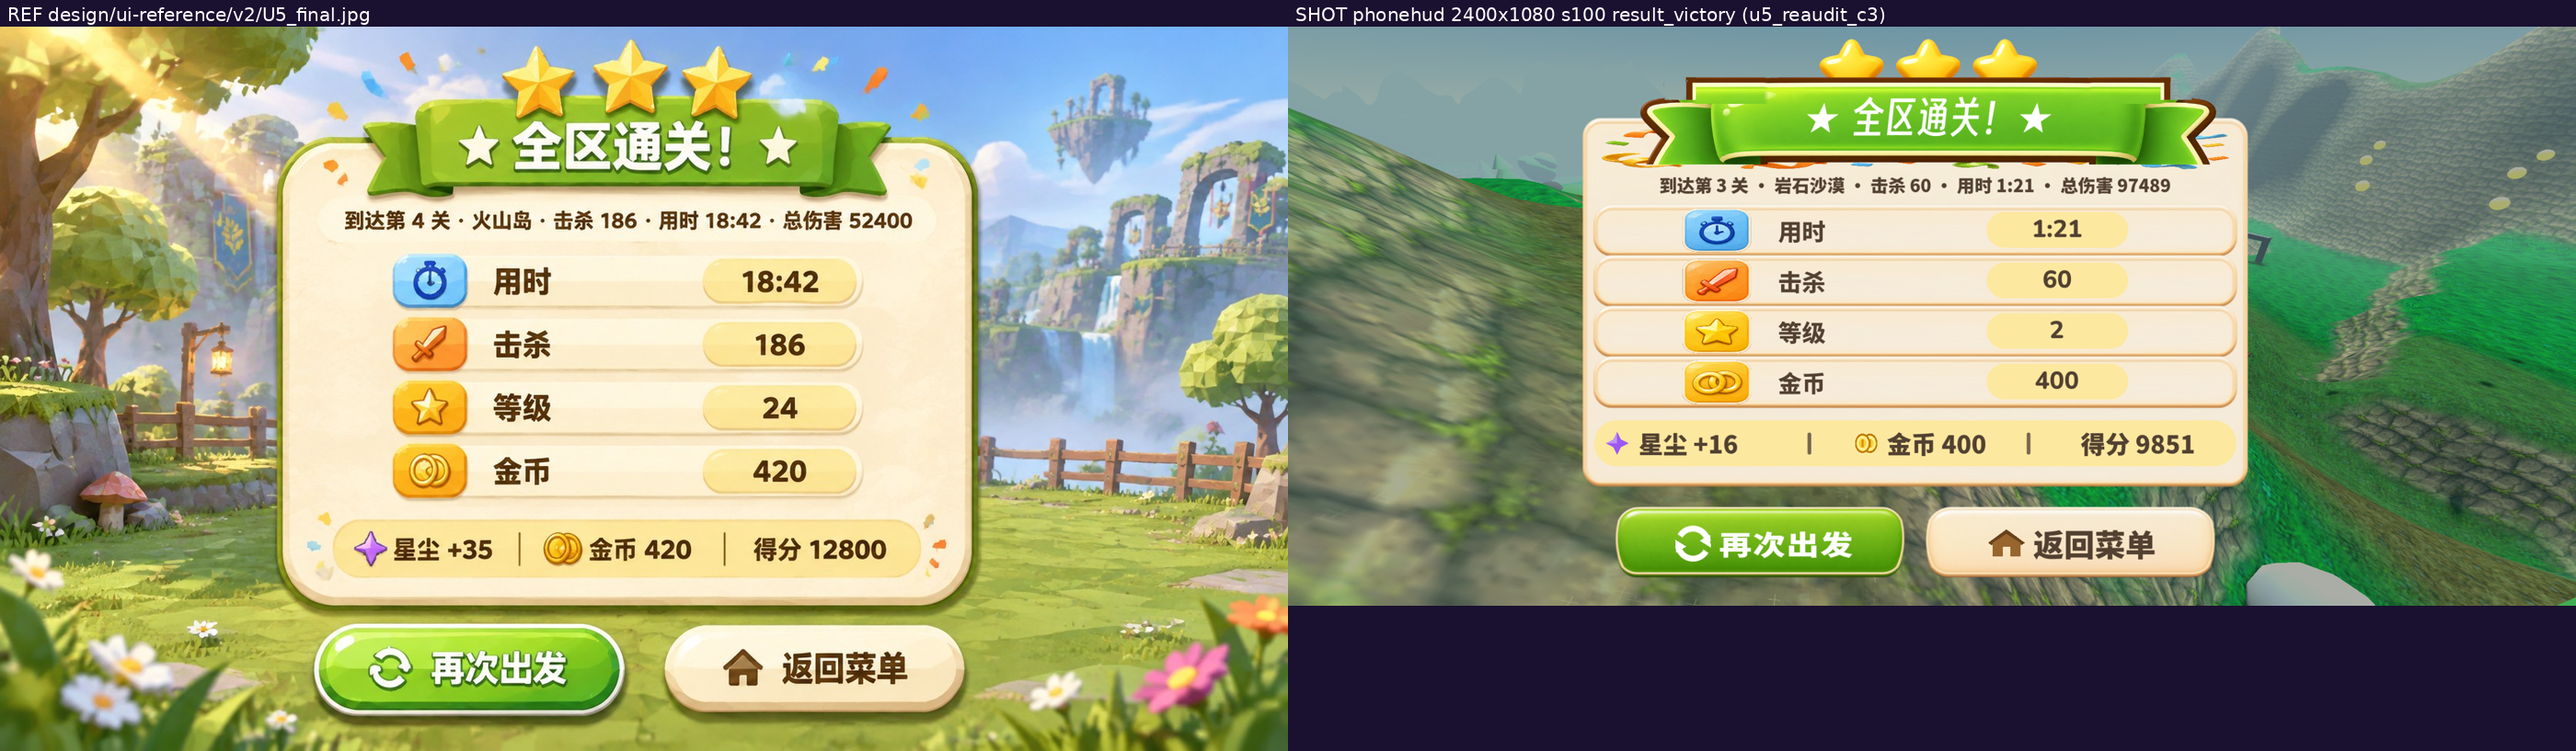
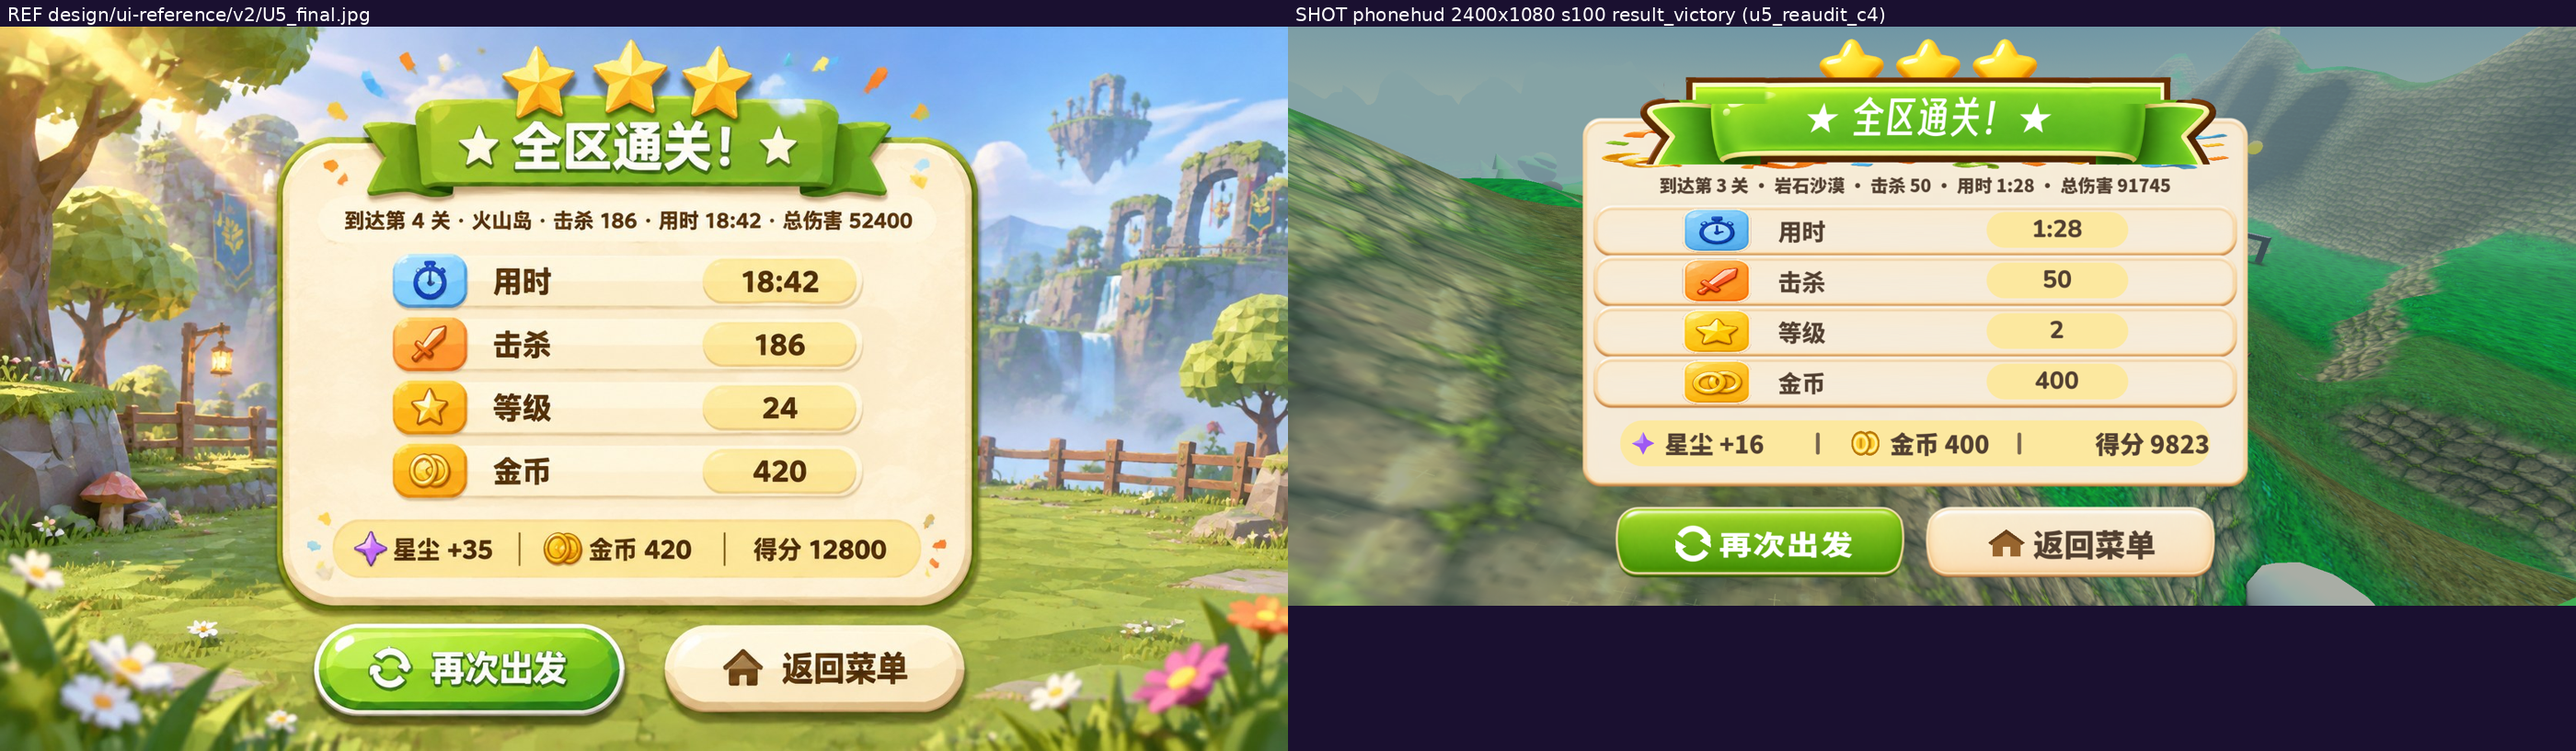
U5 re-audit round 4 accepted: payout pill inset landed, coins width short (glyph redraw needed), round 5 brief drafted (09:4x worker)

Changed region(s): [[0.6214, 0.5508, 0.7768, 0.612], [0.8079, 0.5508, 0.87, 0.612], [0.9632, 0.2142, 0.9943, 0.2448]]

diff --git a/design/ui-alignment-progress.md b/design/ui-alignment-progress.md
@@ -1287,3 +1287,26 @@ U1 已重开，U3 不得开工（见「关闭门」）。第 9 轮：2340 复验
 - 同步：sync_to_nuc 两次遇 rsync rc=12/255「Connection closed by UNKNOWN port 65535」已知传输抖动，第三次成功；parity 908 文件 0 diff。
 - Parse 门 Test/u5_reaudit_c4_parse.sh：world.gd rc=0、ui_icon.gd rc=0。
 - 提交 27b64fc 已推送（ls-remote 核验）；验证批 Test/u5_reaudit_c4_run.sh 08:30:58 起跑，.done 路径 Test/out/u5_reaudit_c4.done，预计 ALLDONE 约 09:05–09:10。**下一轮只监看批、取新拍复测、重建 compare、亲检再议签核。** U5 未关闭；U1 复审仍不开。
+
+## U5 复审 Codex 第四轮验收（2026-11-16 09:1x–09:4x 轮，worker 同法复测＋亲检）
+
+- 批次 Test/out/u5_reaudit_c4.done ALLDONE 08:56:48：2400 s100 **1549/0**、2340 s100 **1564/0**（FAIL 行 0 条；SCRIPT ERROR 0 条）。双档新拍＋双日志已拉回逐字节核验（2340 md5 1f1dbc76、2400 md5 445cef30；日志 820207/814011 字节，md5 与 NUC 一致）。
+- 复测（2340＋2400 双档，同法；脚本 .tmp/scan_u5_reaudit_c3.py / c3_scan2.py / c3_extra.py / u5_reaudit_c2_type{,2}.py / scan_u5_reaudit_c4.py，新写 .tmp/scan_u5_reaudit_c4_coins.py（dark-gold 币标法）与 .tmp/scan_u5_reaudit_c4_pillx.py / pillrow.py / rowband.py，结果存 .tmp/u5_reaudit_c4_*.txt）：
+  - ✅ **汇总 pill inset 落定**：goldfill 法 pill x 25.30..72.05 vs 定稿 25.12..72.19（第三轮 23.12..74.23 已清）；左右边距各 2.74%W（目标 2.5–2.9%W）。2400 腿 25.92..71.46，边距各约 2.66%W。
+  - ✅ 汇总带 y 保持：scan2 goldblob5 68.06..75.74 vs 定稿 68.01..75.98。
+  - ✅ 面板框：22.56..74.79/16.20..78.61 vs 定稿 22.43..74.88/16.37..78.64。保持。
+  - ✅ 行心：值 pill 金填充心 35.05/43.80/52.50/61.25 vs 定稿 34.91/43.62/52.44/61.11（残差 +0.14/+0.18/+0.06/+0.14）；行距 8.70–8.75 vs 8.73；值 pill 右缘 65.64 vs 66.39（同法）。保持。
+  - ✅ 行标签字：cap 高 3.80 vs 定稿 3.72–3.83；标签 x 38.33..41.88 vs 38.34..42.64。保持。
+  - ✅ tile：左缘 30.81 vs 定稿 30.50%W；宽圆角矩形目视确认；高 7.04 vs 7.33%H。保持。
+  - ✅ 标题字形：6.39 vs 6.38%H。保持。
+  - ✅ 钮面字：绿钮 4.44 vs 定稿 4.36%H（type2）；奶油钮 5.00 vs 4.89%H（type；type2 的 8.06 系钮下深色岩石背景污染，勿再误判）。保持。
+  - ✅ 再次出发钮 glyph：双弧双箭头，4 倍放大裁切亲验，形状与定稿一致（弧略细、箭头偏尖属纹理族）；家形图标双色调＋门洞，4 倍裁切亲验。保持。
+  - ✅ 汇总星：h 3.80 vs 定稿 3.83%H。保持。
+  - ✅ 摘要加粗：同法 dark 像素占比与第三轮一致（+21% 归一，第三轮已验收）。保持。
+  - ⚠ **汇总金币图标仅高度达标、宽度未达标**：dark-gold 法币对 h 4.26 vs 定稿 4.68%H（-9%，第三轮 3.33→已放大），但 **w 2.26 vs 定稿 5.08%W（仅 44%）**；extra 亮面法 h 3.43 vs 定稿 4.68（第三轮 2.78）。根因已查明：现 glyph（ui_icon.gd `result_coins`，圆心 cx [15, 9]、半径 8、x 向 squash 0.78）绘出 18.48×16 单位（宽高比 1.16），定稿币对为两枚近乎相切的整圆并排（85×44 px，宽高比 1.93）；**方形 Control 内宽高比上限 24/16=1.5，只放大尺寸修不好**——第四轮 38→48 已证（高到位、宽不动）。2400 腿同值。
+  - △ 汇总字尺寸新测存疑（不列入本轮判据，待主控裁定）：中文 glyph 法“金币”文字 cap 高 3.98 vs 定稿 3.19%H（+25%），而 c3 验收的数字法为 3.06 vs 2.76%H（+11%）；两法不一致，疑为定稿 JPEG 边缘柔化＋粗体权重所致。第五轮不得自行改字号。
+  - △ 行带分隔线：纵向剖面证实定稿亦有行带交替＋分隔线（R-B 约 61–64），我方同结构但分隔线更重（R-B 72–123）——纹理族程度差，非新增结构差。
+- 亲检：compare/U5.png 与 compare/U5_2400.png 已以第四轮双档新拍重建（Test/make_compare_u5.py，标签 u5_reaudit_c4），逐项看过——与上述量测一致；payout/btns/rows/refresh/home 裁切（.tmp/u5_reaudit_c4_cap_*）逐一看过。2400 腿同残差、无新增项。纹理/素材族仍在范围外（缎带棕色粗描边＋窄折尾、三星 6.48 vs 10.20%H 偏小偏高、钮面/pill/行带扁平无光泽渐变），不入本轮代码结论。
+- **量法教训（记入台账，後轮勿重蹈）**：① `.tmp/u5_c4_before_*.png` 并非“改后基线”——其 pill x 23.12..74.23、币 extra h 2.78 均为第三轮值，实为 Codex 会话 07:19 改动前渲染的前基线；08:2x 轮“改后基线”标注有误，本轮以前后对比核实为准（pill 23.12→25.30、币 extra 2.78→3.43，改动确实落地）。② pillx 行法（non-cream 行扫描）在本屏失效——实拍面板奶油色 R-B≈30 恰在 cream mask 阈值（>30）边上，行法把面板误判为 pill（得 23.03..74.32）；pill x 一律用 goldfill 法（scan2/3 的 `payout:` 行）。
+- 结论：**U5 未过关闭门**。第四轮两项中一项落定（①汇总 pill inset），一项未落定（②金币图标宽度——glyph 形制问题，需重绘，非尺寸问题）。第五轮处方一项：重绘 `result_coins`（去 squash、圆心拉开、非方形 Control，宽高双目标 5.08%W×4.68%H）。派单草稿 `.tmp/u5_reaudit_codex5_brief.md` 已拟好（含验收数值总表、三种量法警示与 A/B 两处方及换算基准），**待主控派 Codex 池**；本屏仍不开 U1 复审。Notion 对齐单未动（U5 未关闭）。
+- 本轮提交：本节台账＋重建的 compare/U5.png、compare/U5_2400.png（随本提交推送）；量测脚本与裁切图留 .tmp（u5_reaudit_c4_*）。
